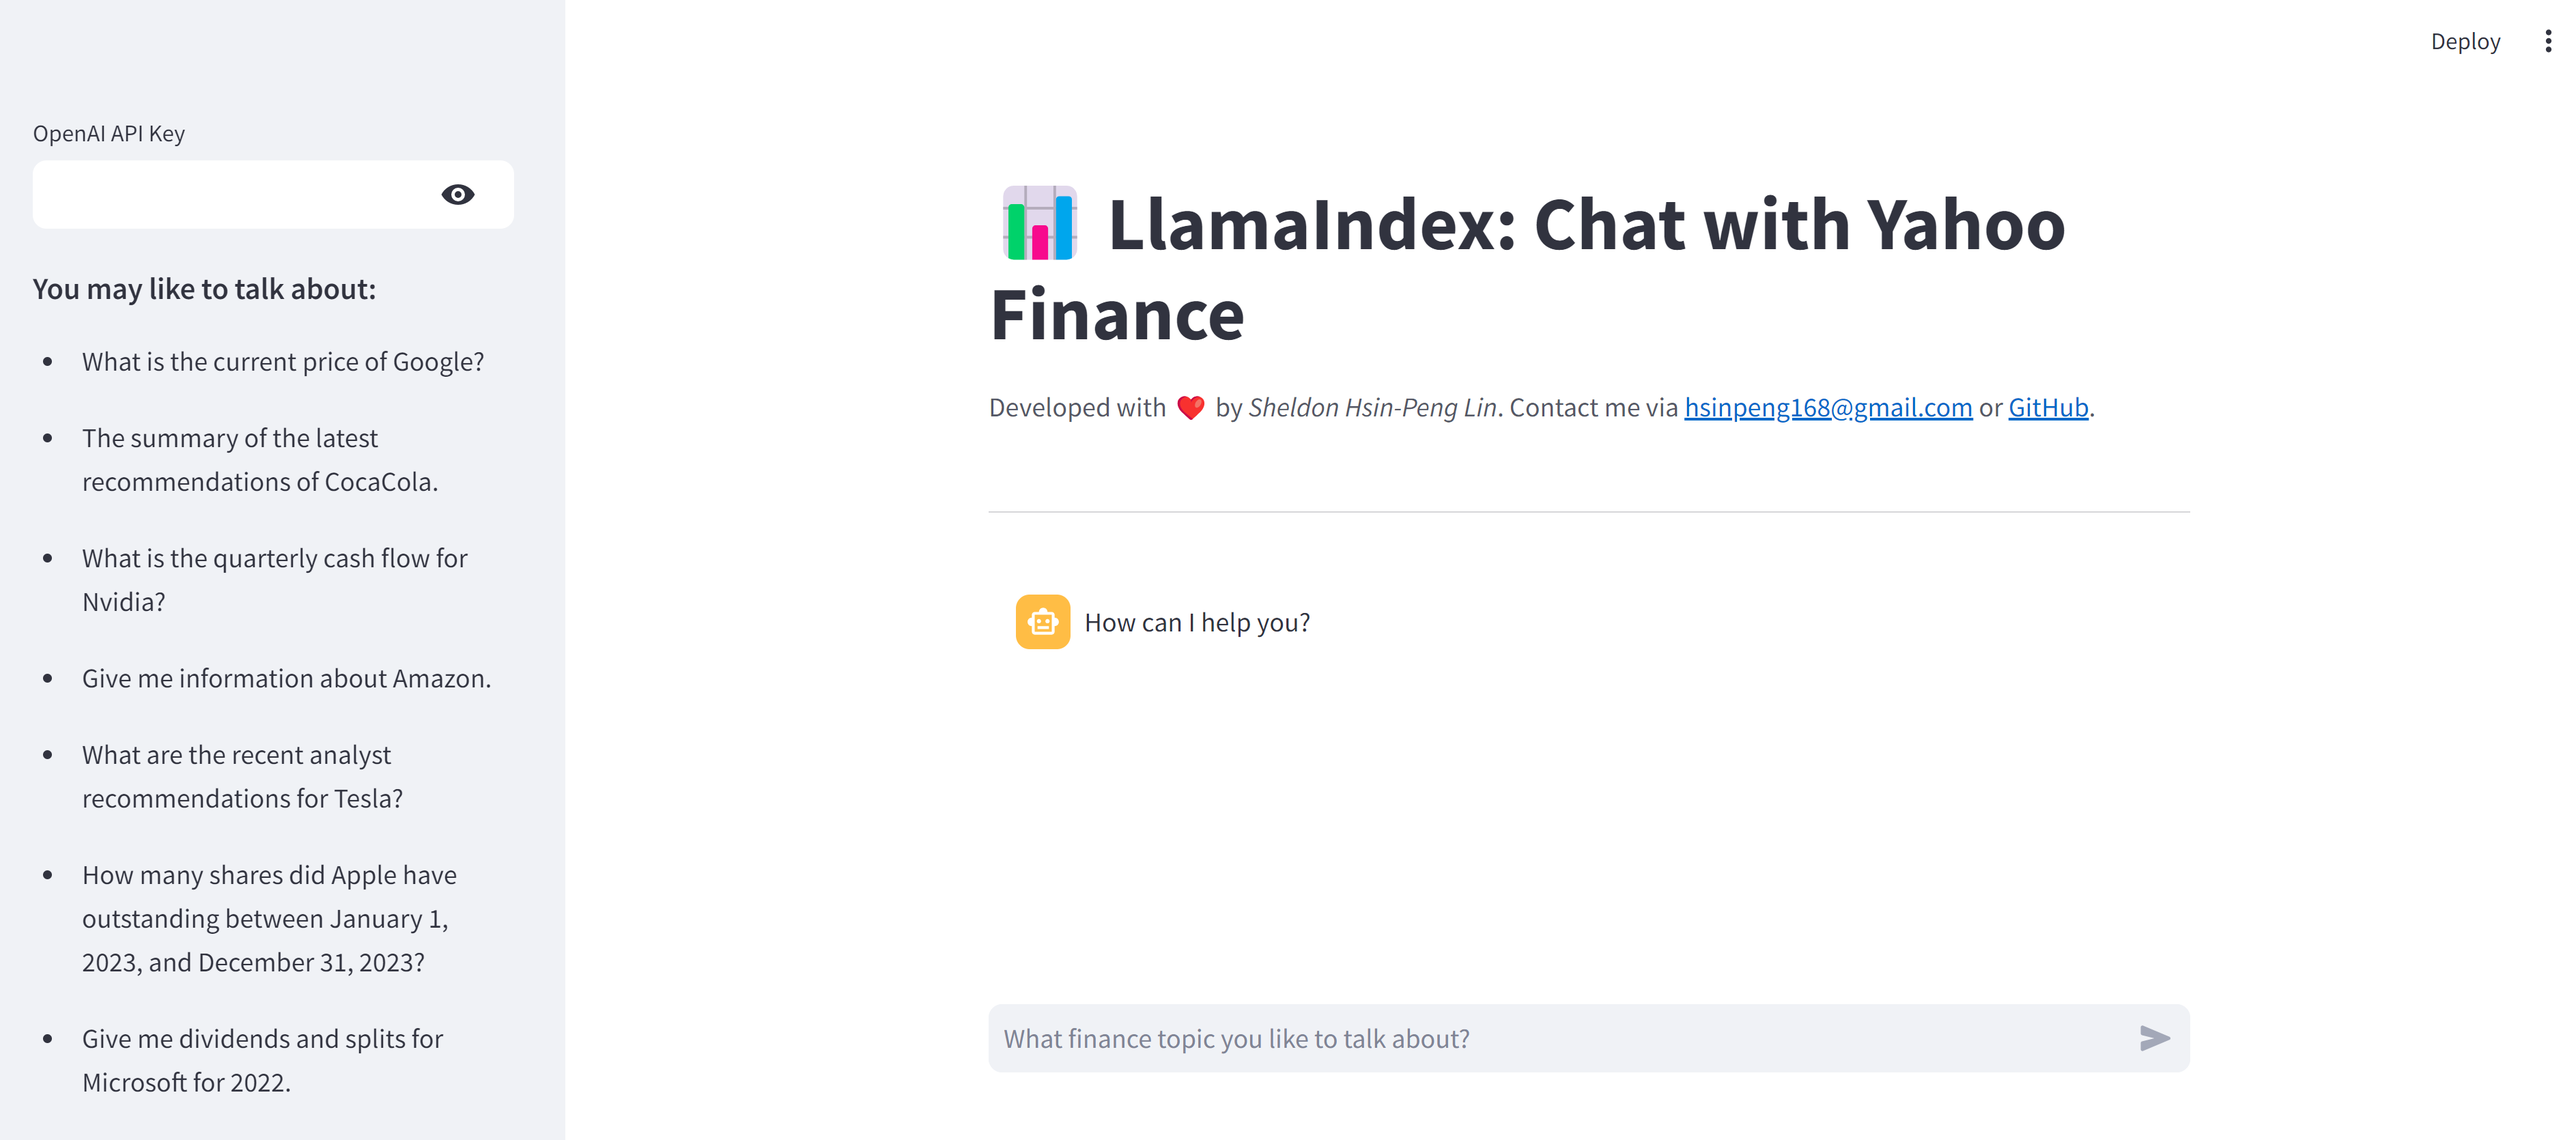
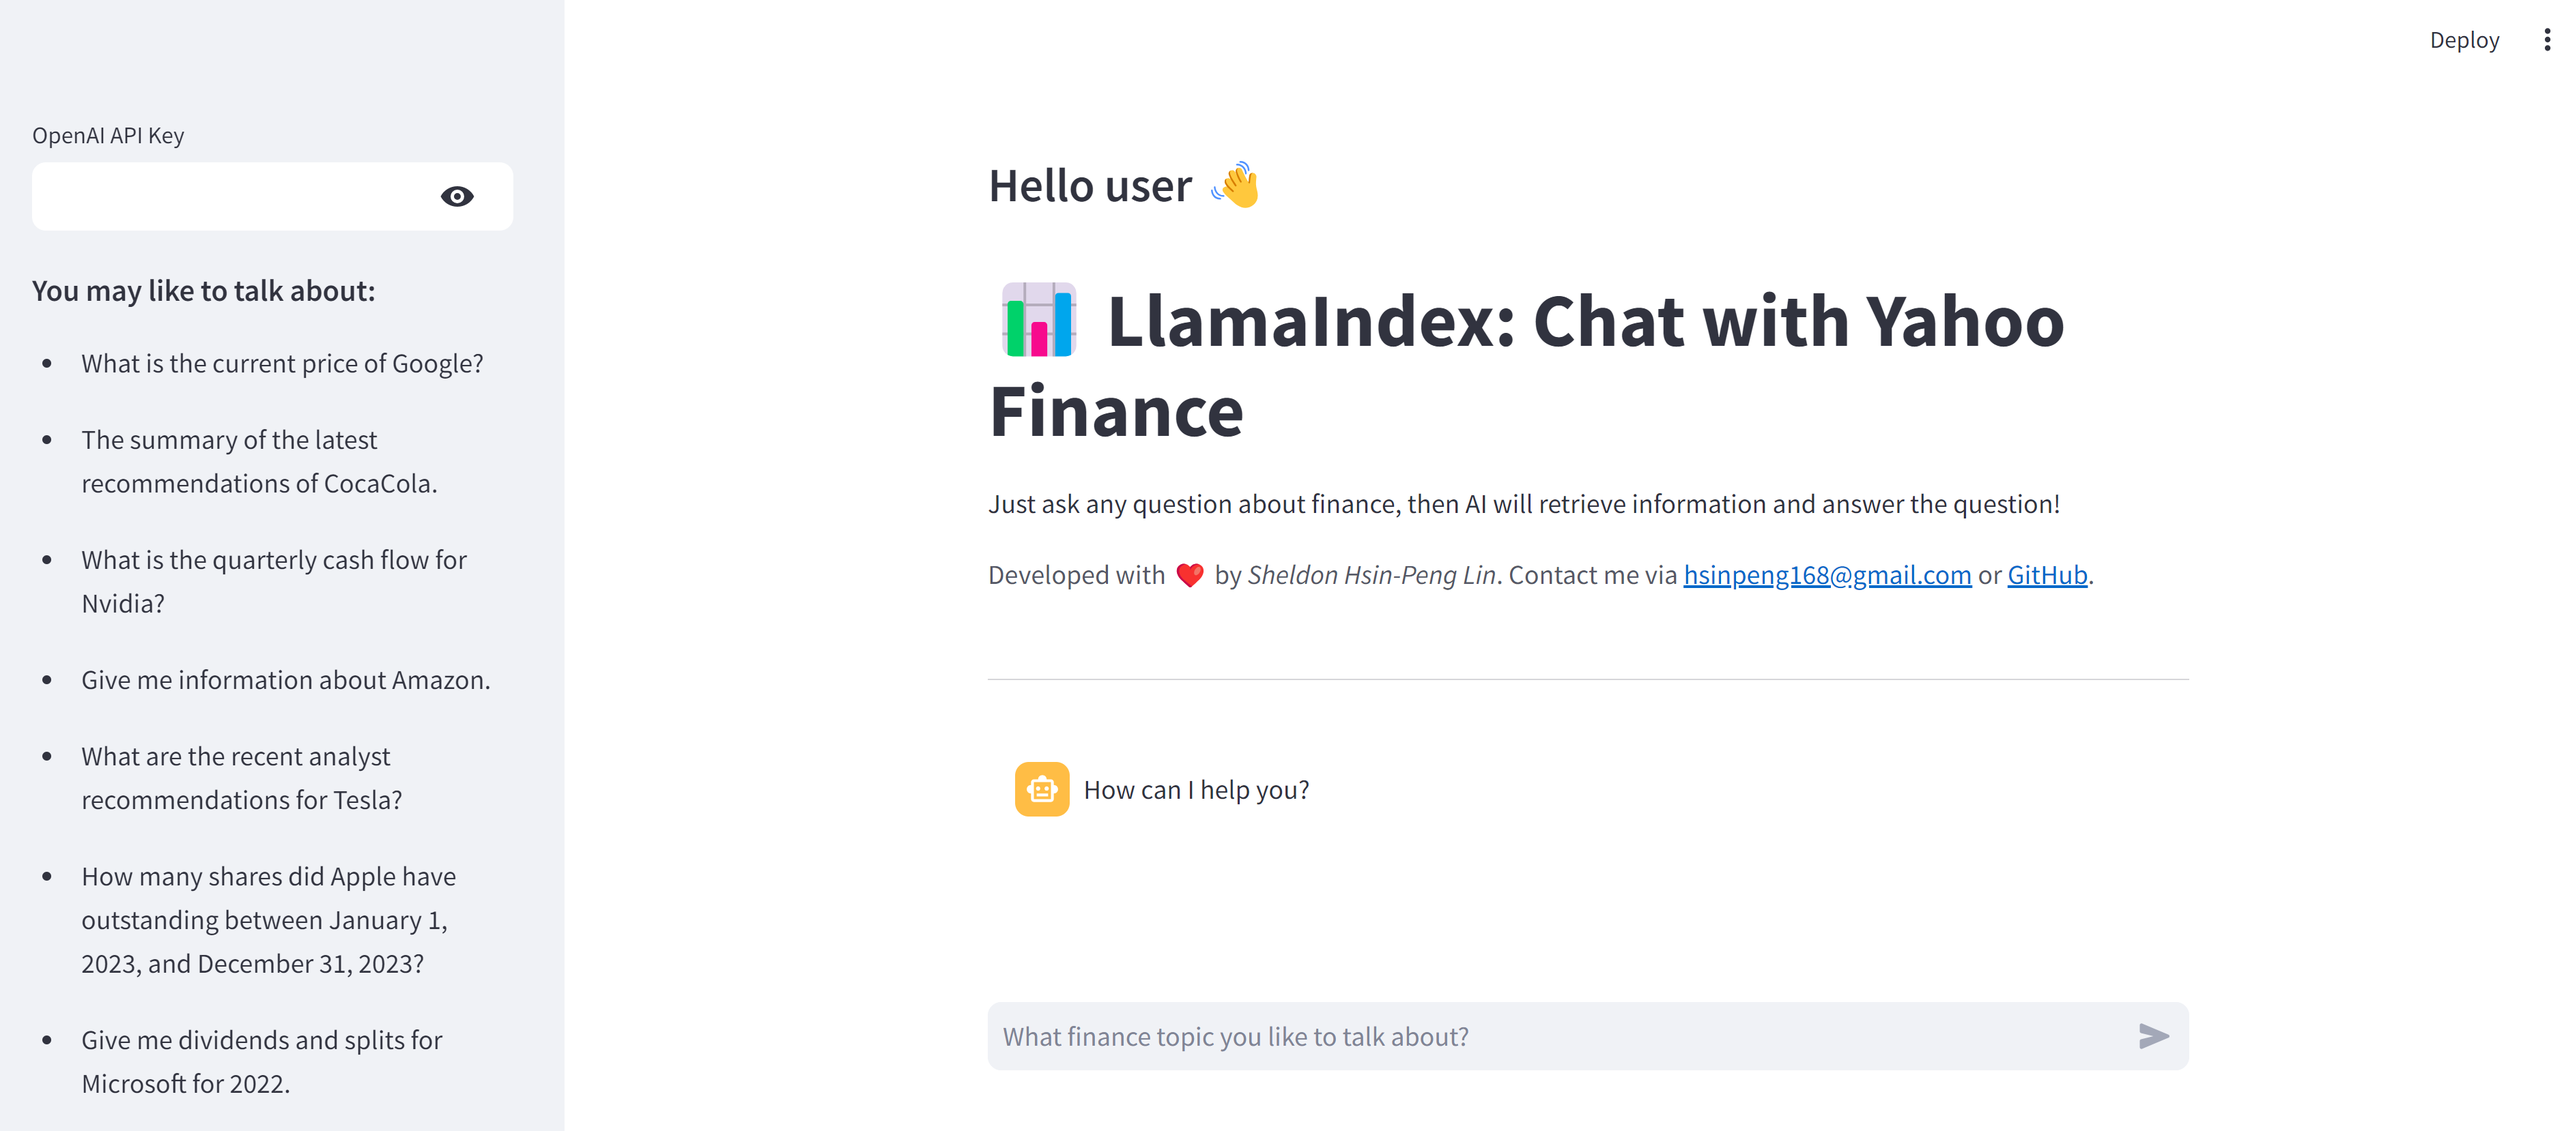
minor changes of ui

diff --git a/chat_yfinance_llamaindex.py b/chat_yfinance_llamaindex.py
@@ -1,5 +1,5 @@
 import streamlit as st
-from st_dev_info import developer_info_simple_stream, developer_info_simple_static
+from st_dev_info import developer_info_simple_stream, developer_info_simple_static, stream_words
 from llama_index.llms.openai import OpenAI
 from llama_index.core import Settings
 from llama_index.core.agent import ReActAgent
@@ -10,13 +10,18 @@ AUTHOR = "Sheldon Hsin-Peng Lin"
 EMAIL = "hsinpeng168@gmail.com"
 GITHUB = "https://github.com/hsinpeng"
 
+# Introduction section
 st.set_page_config(page_title=APP_TITLE, page_icon="🦜")
+st.subheader("Hello user 👋")
 st.title(f":bar_chart: {APP_TITLE}")
 # Display author info
+welcome_message = "Just ask any question about finance, then AI will retrieve information and answer the question!"
 if "has_been_streamed" not in st.session_state:
     st.session_state["has_been_streamed"] = True
+    st.write(stream_words(welcome_message))
     developer_info_simple_stream(author=AUTHOR, email=EMAIL, github=GITHUB)
 else:
+    st.write(welcome_message)
     developer_info_simple_static(author=AUTHOR, email=EMAIL, github=GITHUB)
 st.divider()
 
